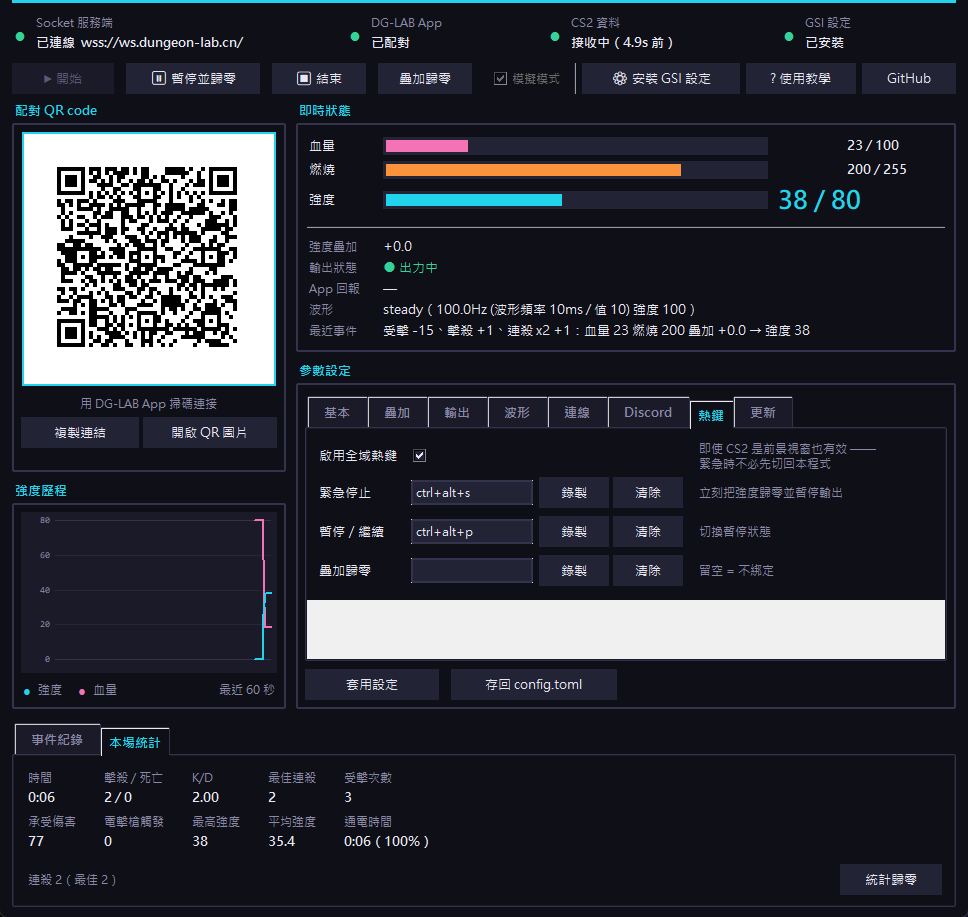
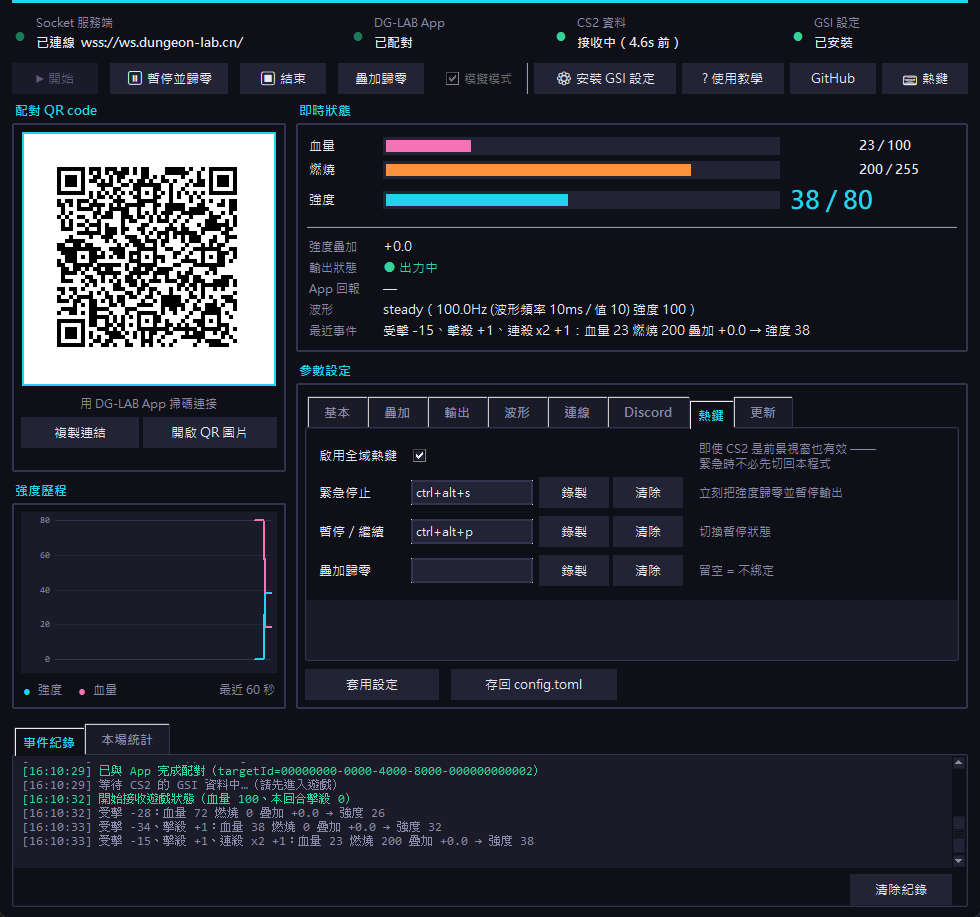
修正參數分頁底部的白框框，並加上「熱鍵」按鈕
- ScrollableFrame 的 Canvas 忘了設背景色，所以內容比可視範圍短的分頁
  （疊加、波形、熱鍵…）會露出系統預設的白色。這是我在 v3.2.0 導入
  可滾動分頁時就有的問題。
- 按鈕列加上「⌨ 熱鍵」，按下去直接切到熱鍵分頁；同時把其他按鈕的字寬
  縮小，讓視窗寬度維持在 980（加了按鈕之前是 968）。

diff --git a/gui.py b/gui.py
@@ -1239,7 +1239,11 @@ class ScrollableFrame(ttk.Frame):
 
     def __init__(self, parent: tk.Widget, *, height: int = 280, **kwargs) -> None:
         super().__init__(parent, **kwargs)
-        self.canvas = tk.Canvas(self, height=height, highlightthickness=0)
+        # Canvas 一定要自己設背景色：內容比可視範圍短的時候，下面那塊空白
+        # 就是 canvas 自己的底色，不設的話會是系統預設的白色。
+        self.canvas = tk.Canvas(
+            self, height=height, background=SURFACE, highlightthickness=0
+        )
         self.scrollbar = ttk.Scrollbar(
             self, orient="vertical", command=self.canvas.yview
         )
@@ -1754,17 +1758,17 @@ class DglabApp:
         bar = ttk.Frame(self.root, padding=(12, 10, 12, 0))
         bar.grid(row=1, column=0, sticky="ew")
 
-        self.start_button = ttk.Button(bar, text="\u25b6 開始", command=self._on_start, width=10)
+        self.start_button = ttk.Button(bar, text="\u25b6 開始", command=self._on_start, width=8)
         self.start_button.grid(row=0, column=0, padx=(0, 6))
         self.pause_button = ttk.Button(
-            bar, text="\u23f8 暫停並歸零", command=self._on_pause, width=14, state="disabled"
+            bar, text="\u23f8 暫停並歸零", command=self._on_pause, width=12, state="disabled"
         )
         self.pause_button.grid(row=0, column=1, padx=6)
         self.stop_button = ttk.Button(
-            bar, text="\u23f9 結束", command=self._on_stop, width=9, state="disabled"
+            bar, text="\u23f9 結束", command=self._on_stop, width=8, state="disabled"
         )
         self.stop_button.grid(row=0, column=2, padx=6)
-        ttk.Button(bar, text="疊加歸零", command=self._on_reset_stack, width=9).grid(
+        ttk.Button(bar, text="疊加歸零", command=self._on_reset_stack, width=8).grid(
             row=0, column=3, padx=6
         )
         self.dry_run_var = tk.BooleanVar(value=self.dry_run)
@@ -1786,21 +1790,24 @@ class DglabApp:
 
         ttk.Separator(bar, orient="vertical").grid(row=0, column=5, sticky="ns", padx=6)
         ttk.Button(
-            bar, text="\u2699 安裝 GSI 設定", command=self._on_install_cfg, width=17
+            bar, text="\u2699 安裝 GSI 設定", command=self._on_install_cfg, width=15
         ).grid(row=0, column=6, padx=(0, 6))
         ttk.Button(
-            bar, text="? 使用教學", command=self._show_tutorial, width=11
+            bar, text="? 使用教學", command=self._show_tutorial, width=10
         ).grid(row=0, column=7, padx=(0, 6))
         ttk.Button(
             bar,
             text="GitHub",
             command=lambda: webbrowser.open(PROJECT_URL),
-            width=9,
+            width=8,
         ).grid(row=0, column=8)
+        ttk.Button(
+            bar, text="\u2328 熱鍵", command=self._show_hotkey_tab, width=8
+        ).grid(row=0, column=9, padx=(6, 0))
 
         # 有新版本時才顯示（沒有就 grid_remove，完全不佔高度）
         self.update_banner = ttk.Frame(bar)
-        self.update_banner.grid(row=1, column=0, columnspan=9, sticky="ew", pady=(8, 0))
+        self.update_banner.grid(row=1, column=0, columnspan=10, sticky="ew", pady=(8, 0))
         self.update_banner.grid_remove()
 
     def _build_settings(self, parent: ttk.Frame) -> None:
@@ -2049,6 +2056,16 @@ class DglabApp:
         if state & 0x0040:
             modifiers |= MOD_WIN
         return modifiers, vk
+
+    def _show_hotkey_tab(self) -> None:
+        """切到「熱鍵」分頁 —— 按鈕列那顆 ⌨ 熱鍵 用。"""
+        if not hasattr(self, "notebook"):
+            return
+        for index in range(self.notebook.index("end")):
+            if self.notebook.tab(index, "text") == "熱鍵":
+                self.notebook.select(index)
+                self.notebook.focus_set()
+                return
 
     def _record_hotkey(self, key: str) -> None:
         """開一個小視窗，讓使用者直接按組合鍵。"""
